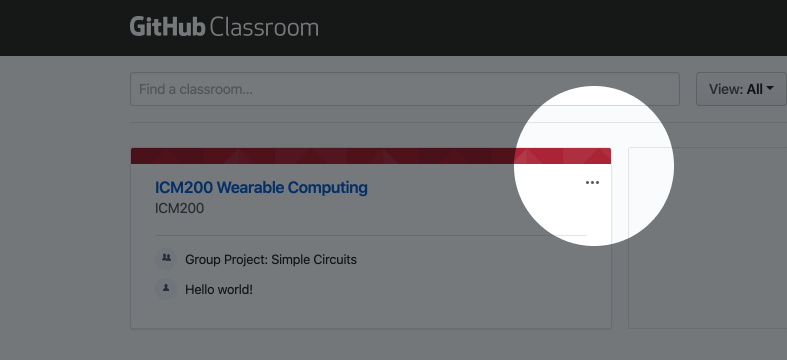
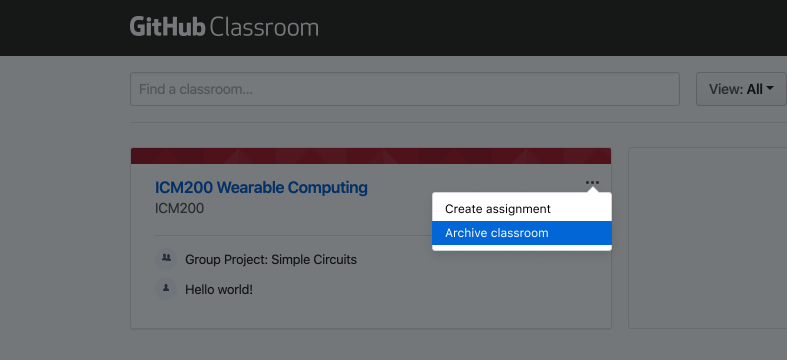
changed to "Archive classroom"

Changed region(s): [[0.5489, 0.2139, 0.8539, 0.7028]]

diff --git a/docs/archive-a-classroom.md b/docs/archive-a-classroom.md
@@ -16,5 +16,5 @@ You can archive classrooms that you no longer plan on using. If a classroom is a
 1. [Sign in to GitHub Classroom](https://classroom.github.com/login).
 2. From the [classrooms home page](https://classroom.github.com/classrooms), invoke the options menu for the classroom you'd like to archive by clicking on the three dots.
 ![archive classroom ellipsis](/images/help/archiving/archive-ellipsis.png)
-3. Select _Archive this classroom_.
+3. Select _Archive classroom_.
 ![classroom dropdown menu](/images/help/archiving/archive-dropdown.png)
